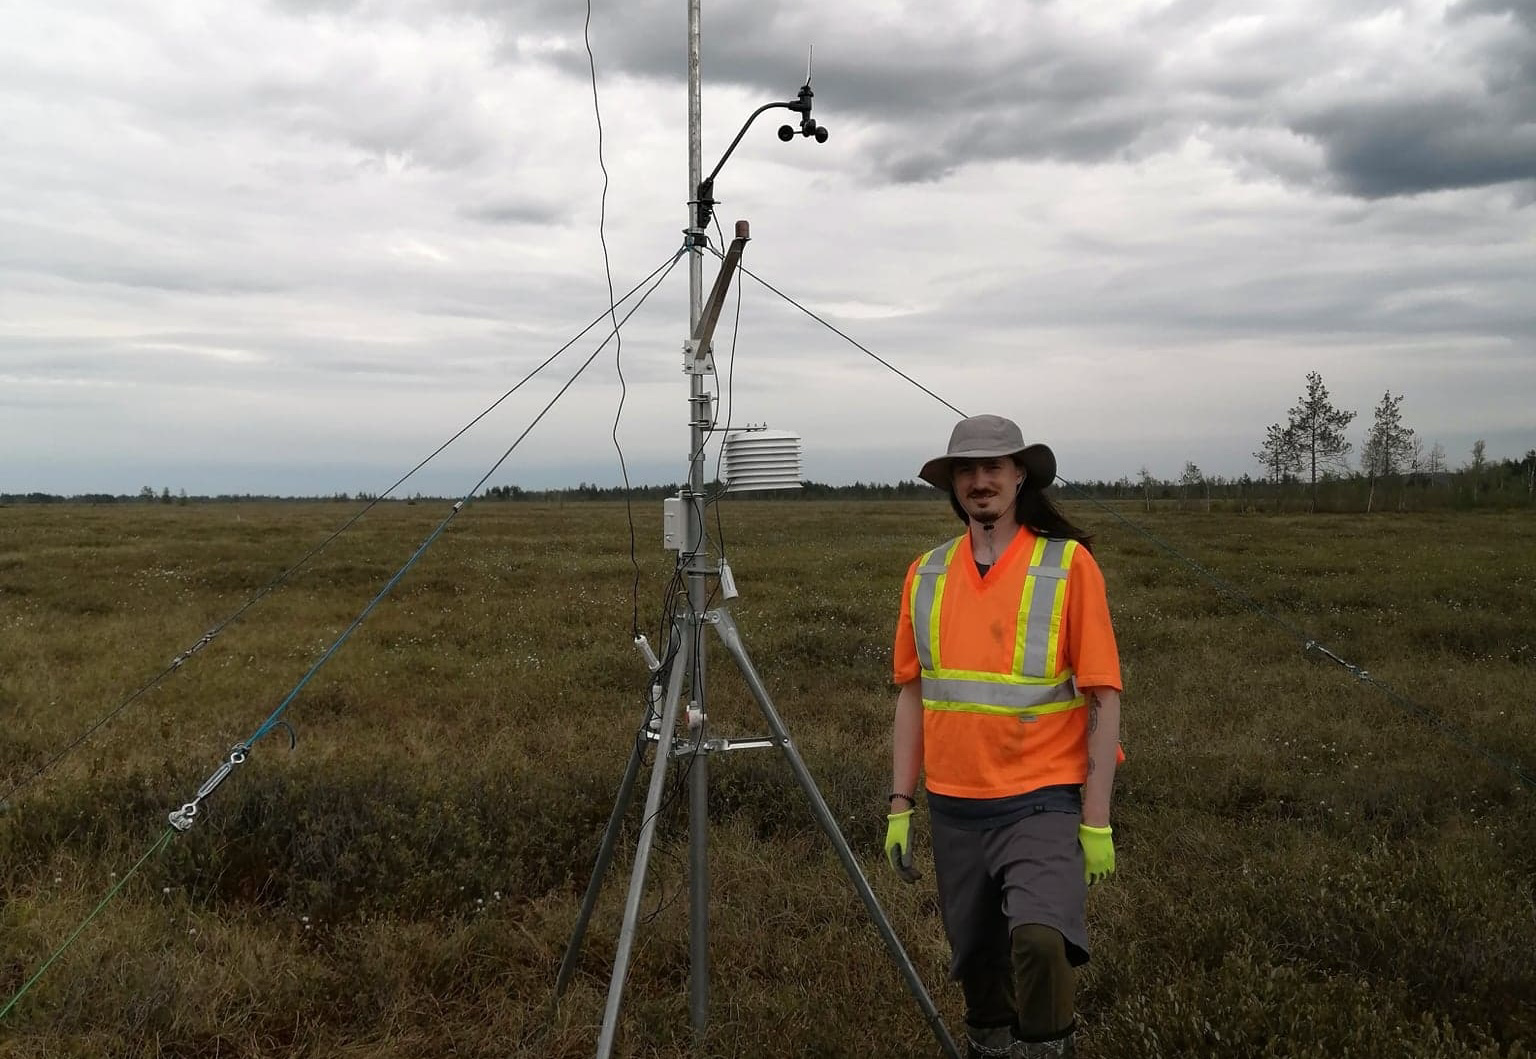
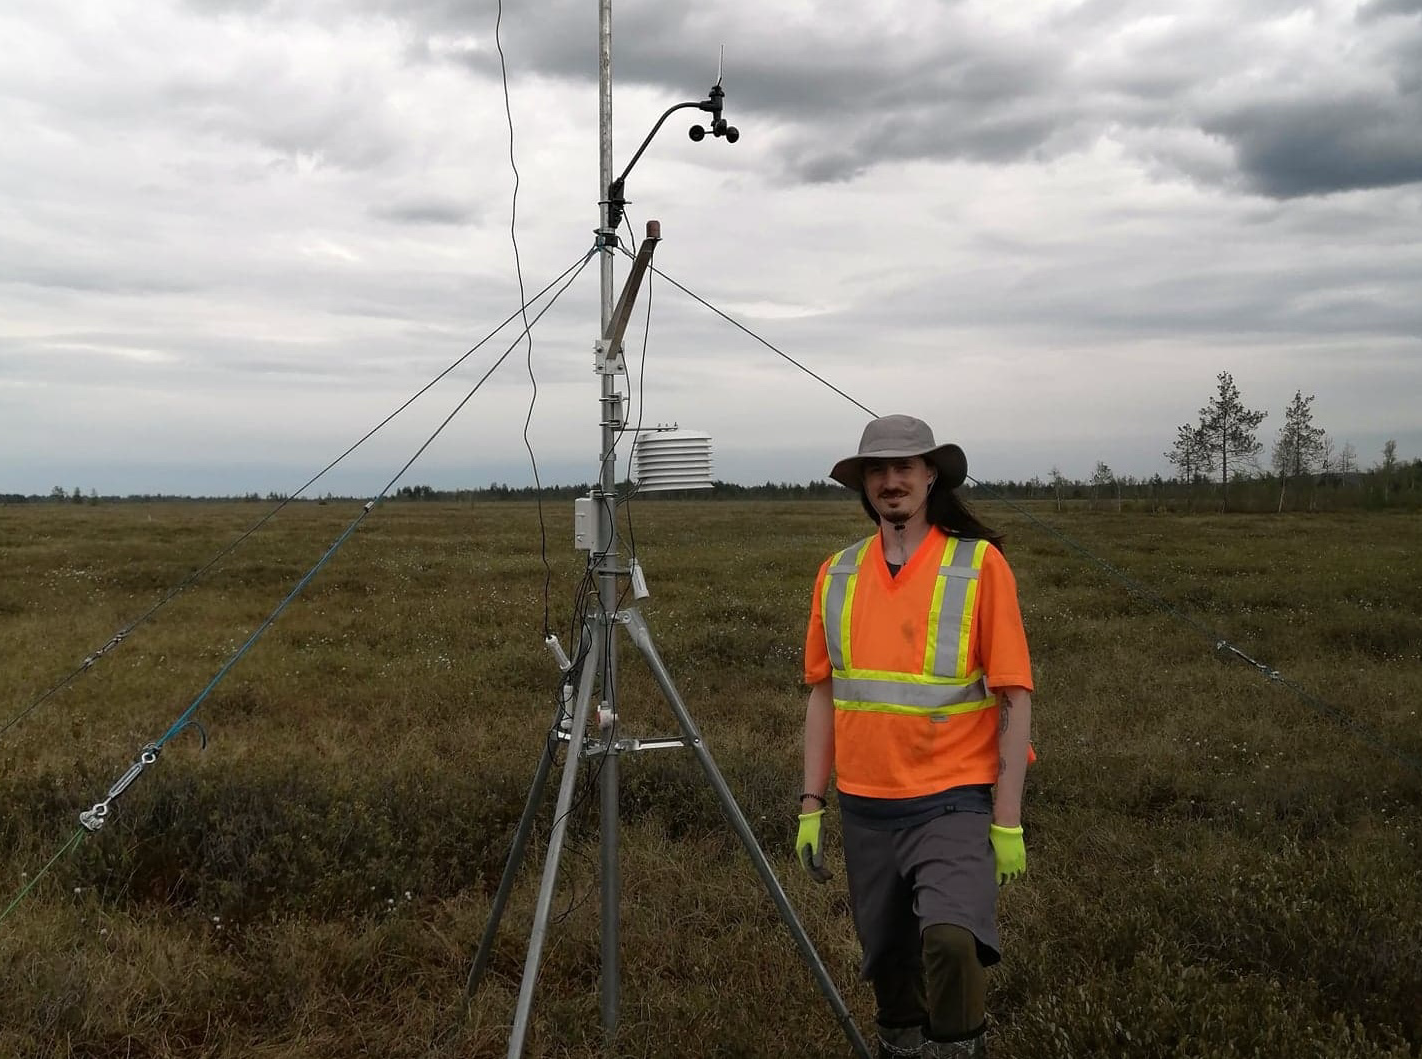
photo evelyne added

diff --git a/docs/en/people.html b/docs/en/people.html
@@ -368,9 +368,8 @@ cookieconsent.run({
 </div>
 <div class="quarto-layout-panel" data-layout-nrow="1">
 <div class="quarto-layout-row">
-<div class="column quarto-layout-cell" style="flex-basis: 50.0%;justify-content: flex-start;">
-<!--![](images/headshots/zoran-nesic-oval.png){width=85%}
--->
+<div class="column quarto-layout-cell" style="flex-basis: 50.0%;justify-content: center;">
+<p><img src="images/team/thiffault_evelyne.png" class="img-fluid"></p>
 </div>
 <div class="column quarto-layout-cell" style="flex-basis: 50.0%;justify-content: center;">
 <table class="caption-top table"><tbody>

diff --git a/docs/people.html b/docs/people.html
@@ -368,9 +368,8 @@ cookieconsent.run({
 </div>
 <div class="quarto-layout-panel" data-layout-nrow="1">
 <div class="quarto-layout-row">
-<div class="column quarto-layout-cell" style="flex-basis: 50.0%;justify-content: flex-start;">
-<!--![](images/headshots/zoran-nesic-oval.png)
--->
+<div class="column quarto-layout-cell" style="flex-basis: 50.0%;justify-content: center;">
+<p><img src="images/team/thiffault_evelyne.png" class="img-fluid"></p>
 </div>
 <div class="column quarto-layout-cell" style="flex-basis: 50.0%;justify-content: center;">
 <table class="caption-top table"><tbody>
